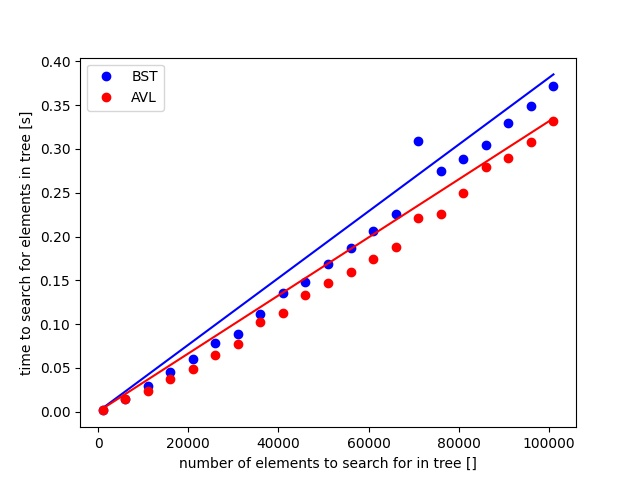
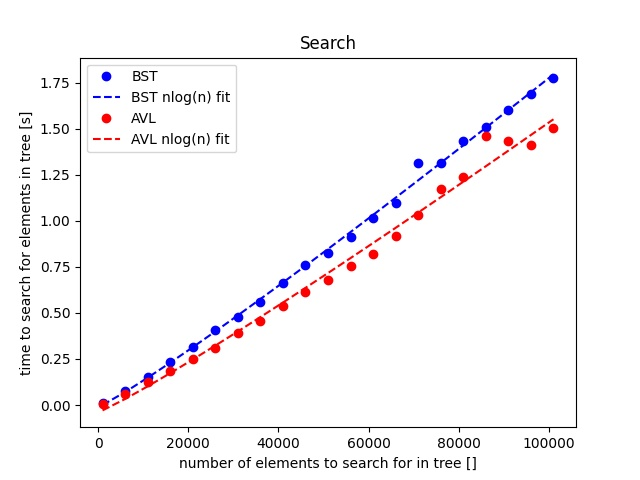
change to nlog(n) fit instead of n fit

diff --git a/3. Drzewa/benchmark.py b/3. Drzewa/benchmark.py
@@ -1,8 +1,11 @@
 from random import sample, seed
 from timeit import timeit
+
+from numpy.lib.polynomial import poly1d
 from trees import BST, AVL
 from matplotlib import pyplot as plt
 from numpy import polyfit, array
+from math import log2
 from typing import Dict
 
 SEED = "trees"
@@ -31,21 +34,23 @@ def plot_benchmark(benchmark_bst: Dict[int, float],
                    benchmark_avl: Dict[int, float]):
     bst_x = array(list(benchmark_bst.keys()))
     bst_y = array(list(benchmark_bst.values()))
+    bst_x_linlog = array([key * log2(key) for key in benchmark_bst.keys()])
 
     avl_x = array(list(benchmark_avl.keys()))
     avl_y = array(list(benchmark_avl.values()))
+    avl_x_linlog = array([key * log2(key) for key in benchmark_avl.keys()])
 
-    bst_plt, =  plt.plot(list(benchmark_bst.keys()), list(
-        benchmark_bst.values()), "bo", label="BST")
-    bst_a, bst_b = polyfit(bst_x, bst_y, 1)
-    plt.plot(bst_x, (bst_a * bst_x), "b")
+    plt.plot(bst_x, bst_y, "bo", label="BST")
+    bst_coefficients = polyfit(bst_x_linlog, bst_y, 1)
+    bst_fit = poly1d(bst_coefficients)
+    plt.plot(bst_x, bst_fit(bst_x_linlog), "b--", label="BST nlog(n) fit")
 
-    avl_plt, = plt.plot(list(benchmark_avl.keys()), list(
-        benchmark_avl.values()), "ro", label="AVL")
-    avl_a, avl_b = polyfit(avl_x, avl_y, 1)
-    plt.plot(avl_x, (avl_a * avl_x), "r")
+    plt.plot(avl_x, avl_y, "ro", label="AVL")
+    avl_coefficients = polyfit(avl_x_linlog, avl_y, 1)
+    avl_fit = poly1d(avl_coefficients)
+    plt.plot(avl_x, avl_fit(avl_x_linlog), "r--", label="AVL nlog(n) fit")
 
-    plt.legend(handles=[bst_plt, avl_plt])
+    plt.legend()
 
 
 if __name__ == "__main__":
@@ -59,6 +64,7 @@ if __name__ == "__main__":
                     for n, tree in bsts.items()}
     t_insert_avl = {n: time_insert(tree, sample_list[:n])
                     for n, tree in avls.items()}
+    plt.title("Insertion")
     plt.ylabel("time to build tree [s]")
     plt.xlabel("number of elements to build tree from []")
     plot_benchmark(t_insert_bst, t_insert_avl)
@@ -68,11 +74,16 @@ if __name__ == "__main__":
         bsts[1000].to_html(f)
     with open("AVL.html", "w") as f:
         avls[1000].to_html(f)
+    with open("BST.xml", "w") as f:
+        bsts[1000].to_xml(f)
+    with open("AVL.xml", "w") as f:
+        avls[1000].to_xml(f)
 
     t_search_bst = {n: time_search(tree, sample_list[:n])
                     for n, tree in bsts.items()}
     t_search_avl = {n: time_search(tree, sample_list[:n])
                     for n, tree in avls.items()}
+    plt.title("Search")
     plt.ylabel("time to search for elements in tree [s]")
     plt.xlabel("number of elements to search for in tree []")
     plot_benchmark(t_search_bst, t_search_avl)
@@ -83,6 +94,7 @@ if __name__ == "__main__":
                     for n, tree in bsts.items()}
     t_delete_avl = {n: time_delete(tree, sample_list[:n])
                     for n, tree in avls.items()}
+    plt.title("Deletion")
     plt.ylabel("time to delete elements in tree [s]")
     plt.xlabel("number of elements to delete in tree []")
     plot_benchmark(t_delete_bst, t_delete_avl)
@@ -92,3 +104,7 @@ if __name__ == "__main__":
         bsts[1000].to_html(f)
     with open("AVL-deleted.html", "w") as f:
         avls[1000].to_html(f)
+    with open("BST-deleted.xml", "w") as f:
+        bsts[1000].to_xml(f)
+    with open("AVL-deleted.xml", "w") as f:
+        avls[1000].to_xml(f)
